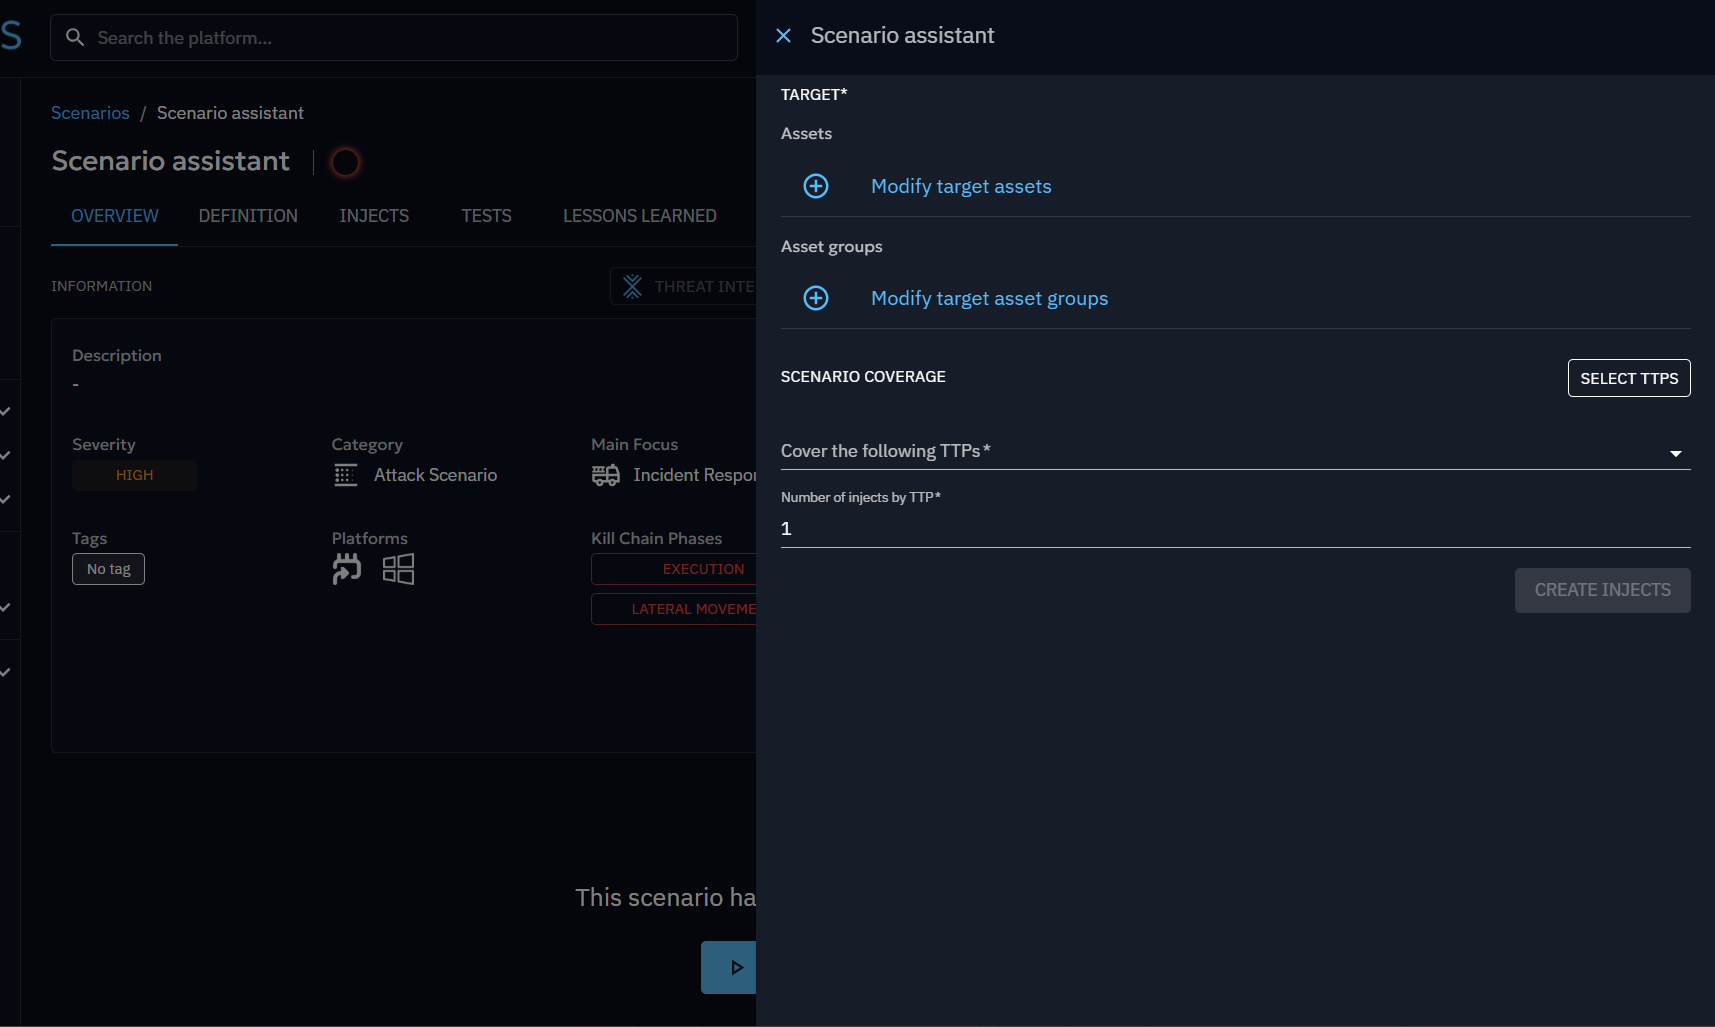
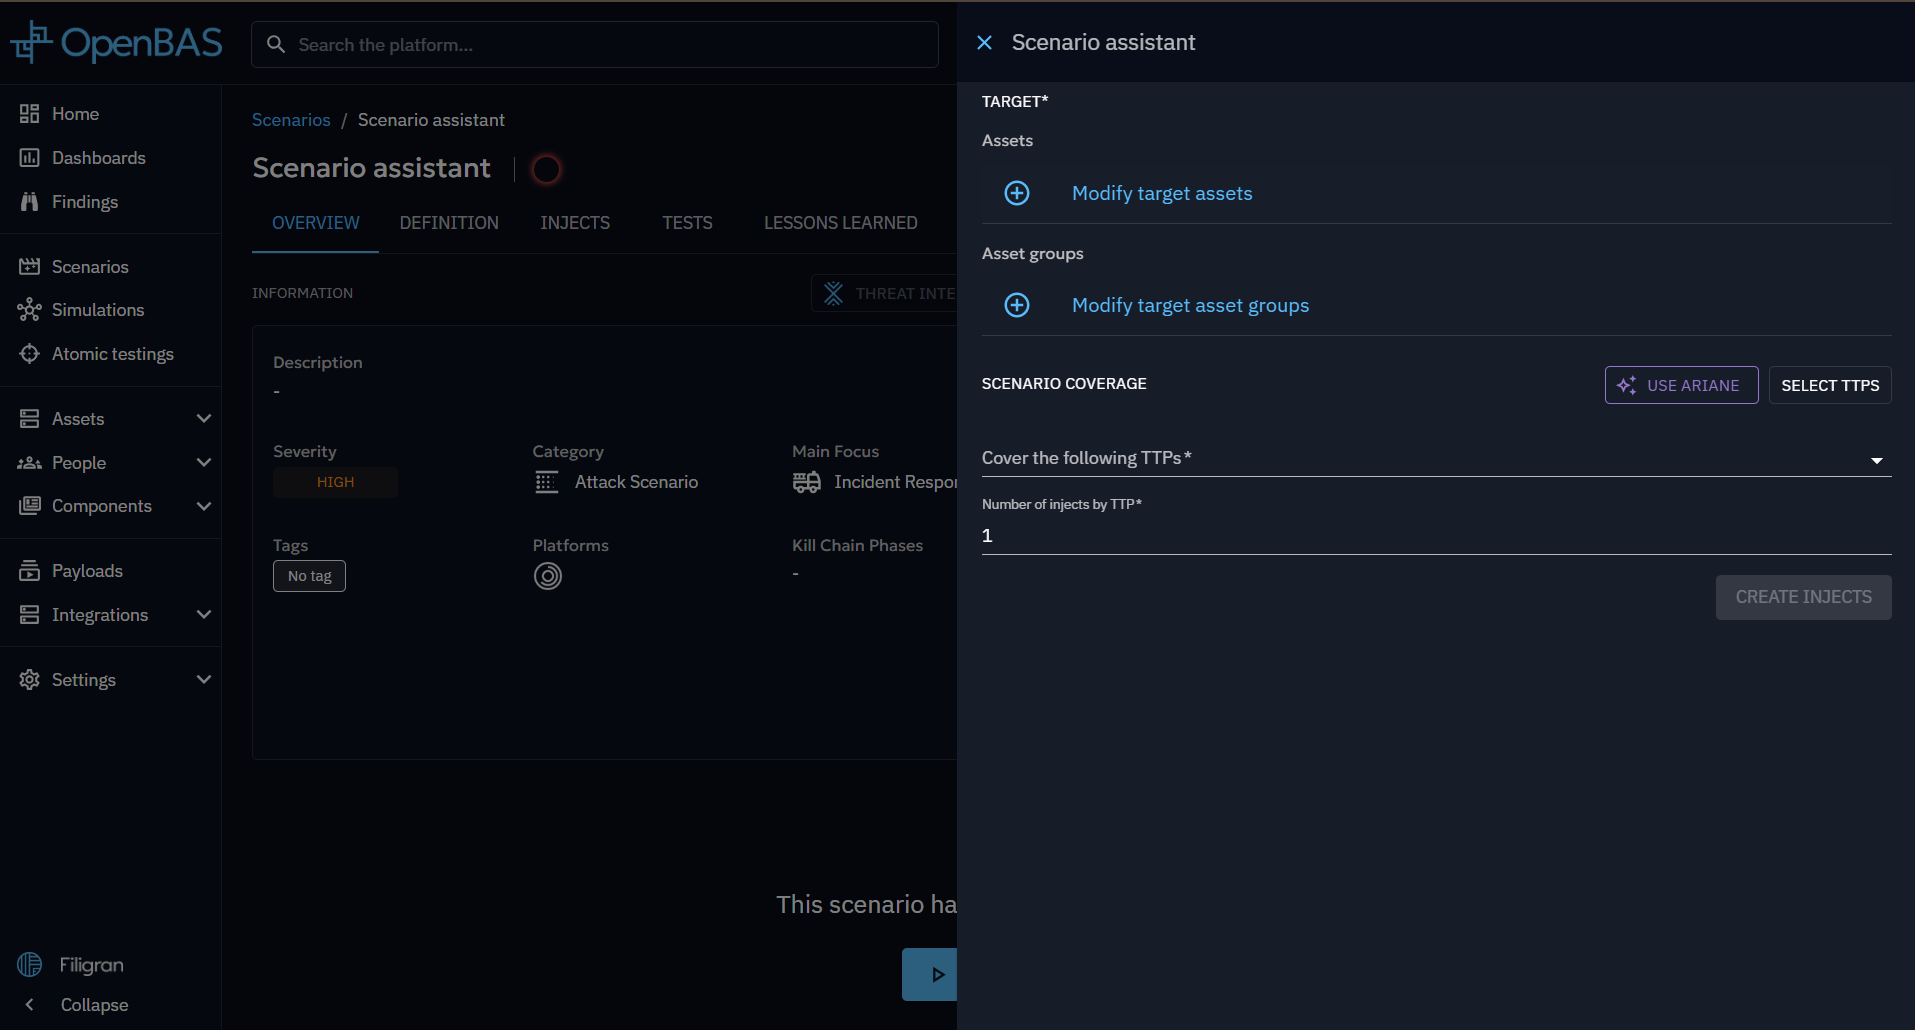
[docs] scenario assistant - ai (#3042)
* [docs] scenario assistant - ai

diff --git a/docs/usage/scenario.md b/docs/usage/scenario.md
@@ -66,6 +66,11 @@ Click the Create injects button to let the system automatically generate injects
 
 ![scenario-assistant-drawer](./scenario/assets/scenario-assistant-drawer.png)
 
+In the Enterprise Edition, you have the ability to select TTPs using Ariane AI.
+This system can analyze text and files such as threat reports to accurately identify and extract relevant TTPs to cover for your simulations.
+
+![ariane-scenario-assistant-modal](./scenario/assets/ariane-scenario-assistant-modal.png)
+
 ### What happens next?  
 The Scenario Assistant generates injects based on your selected TTPs, ensuring compatibility with the platform architectures of your chosen endpoints or asset groups.
 
